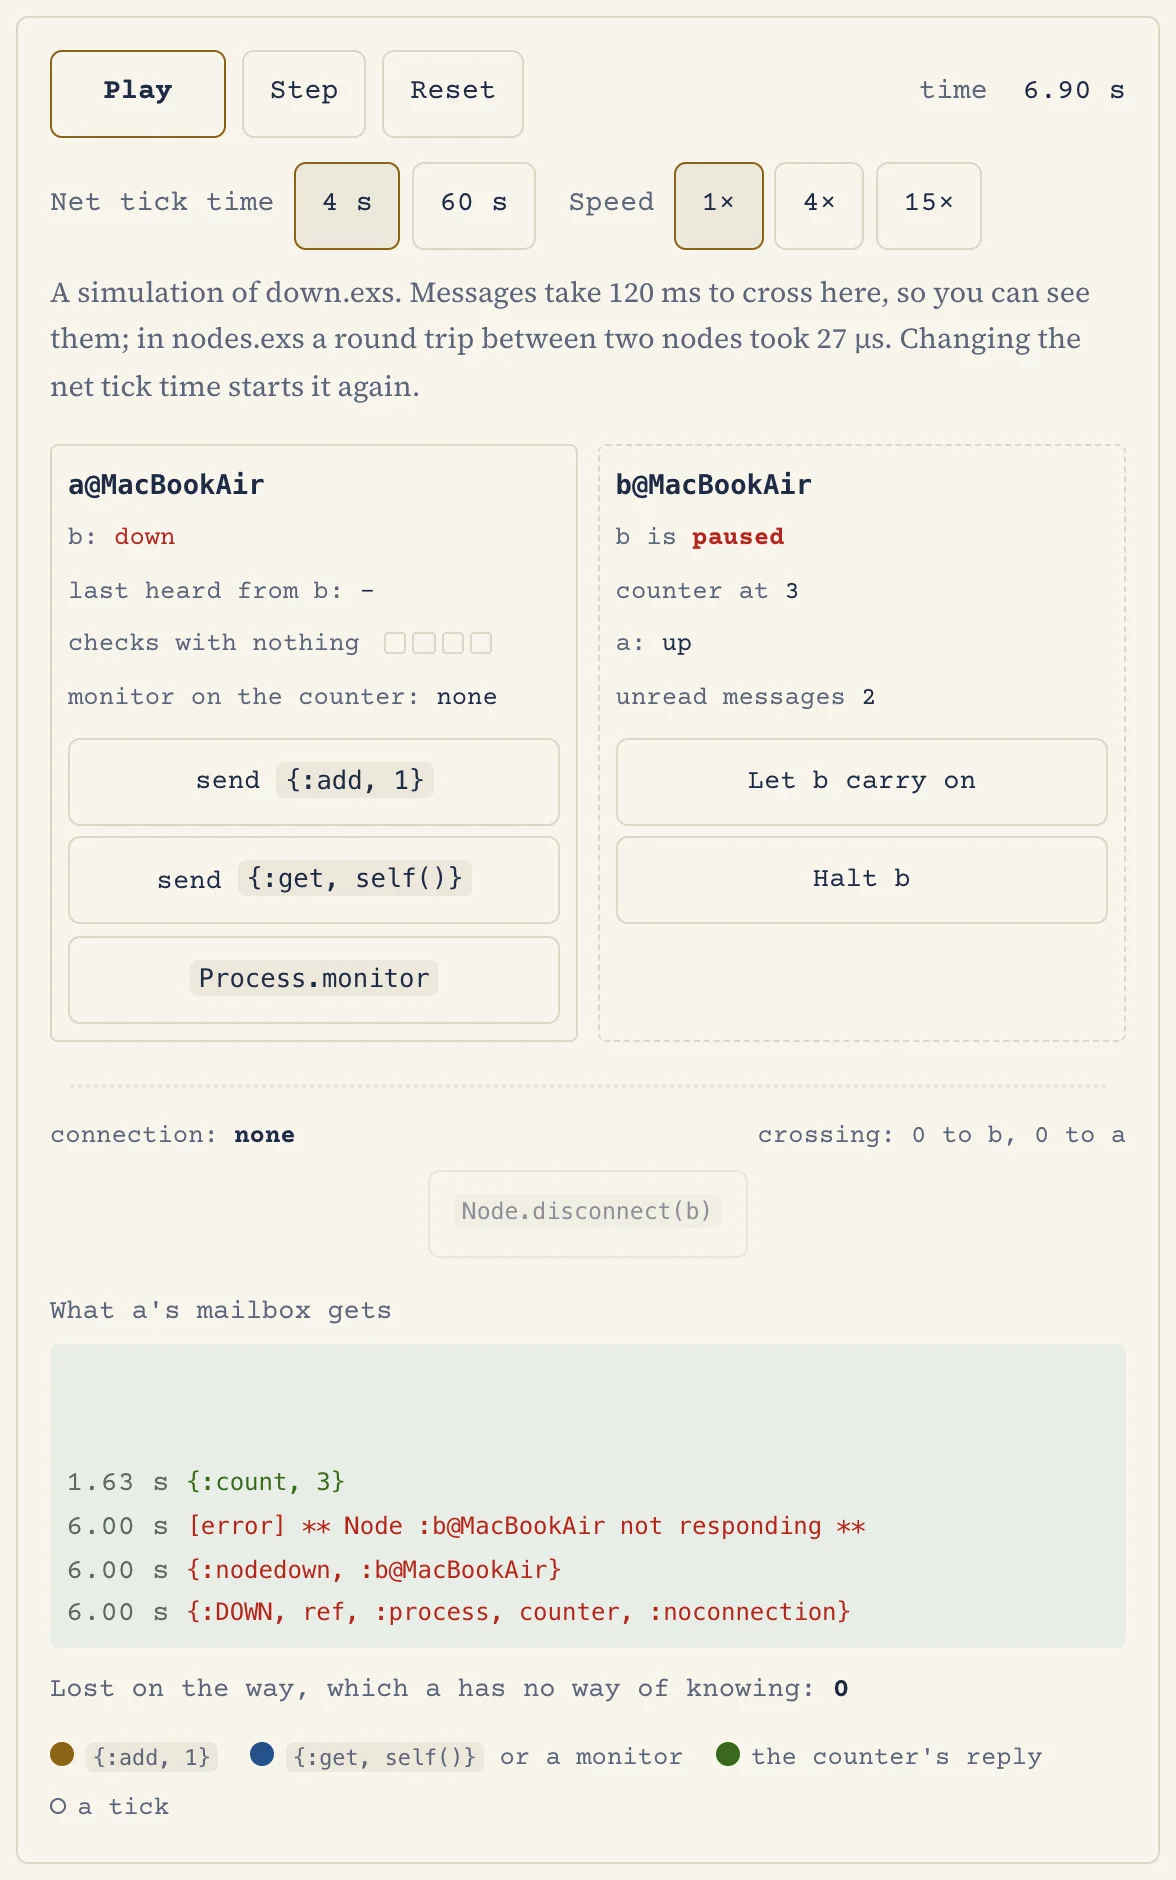
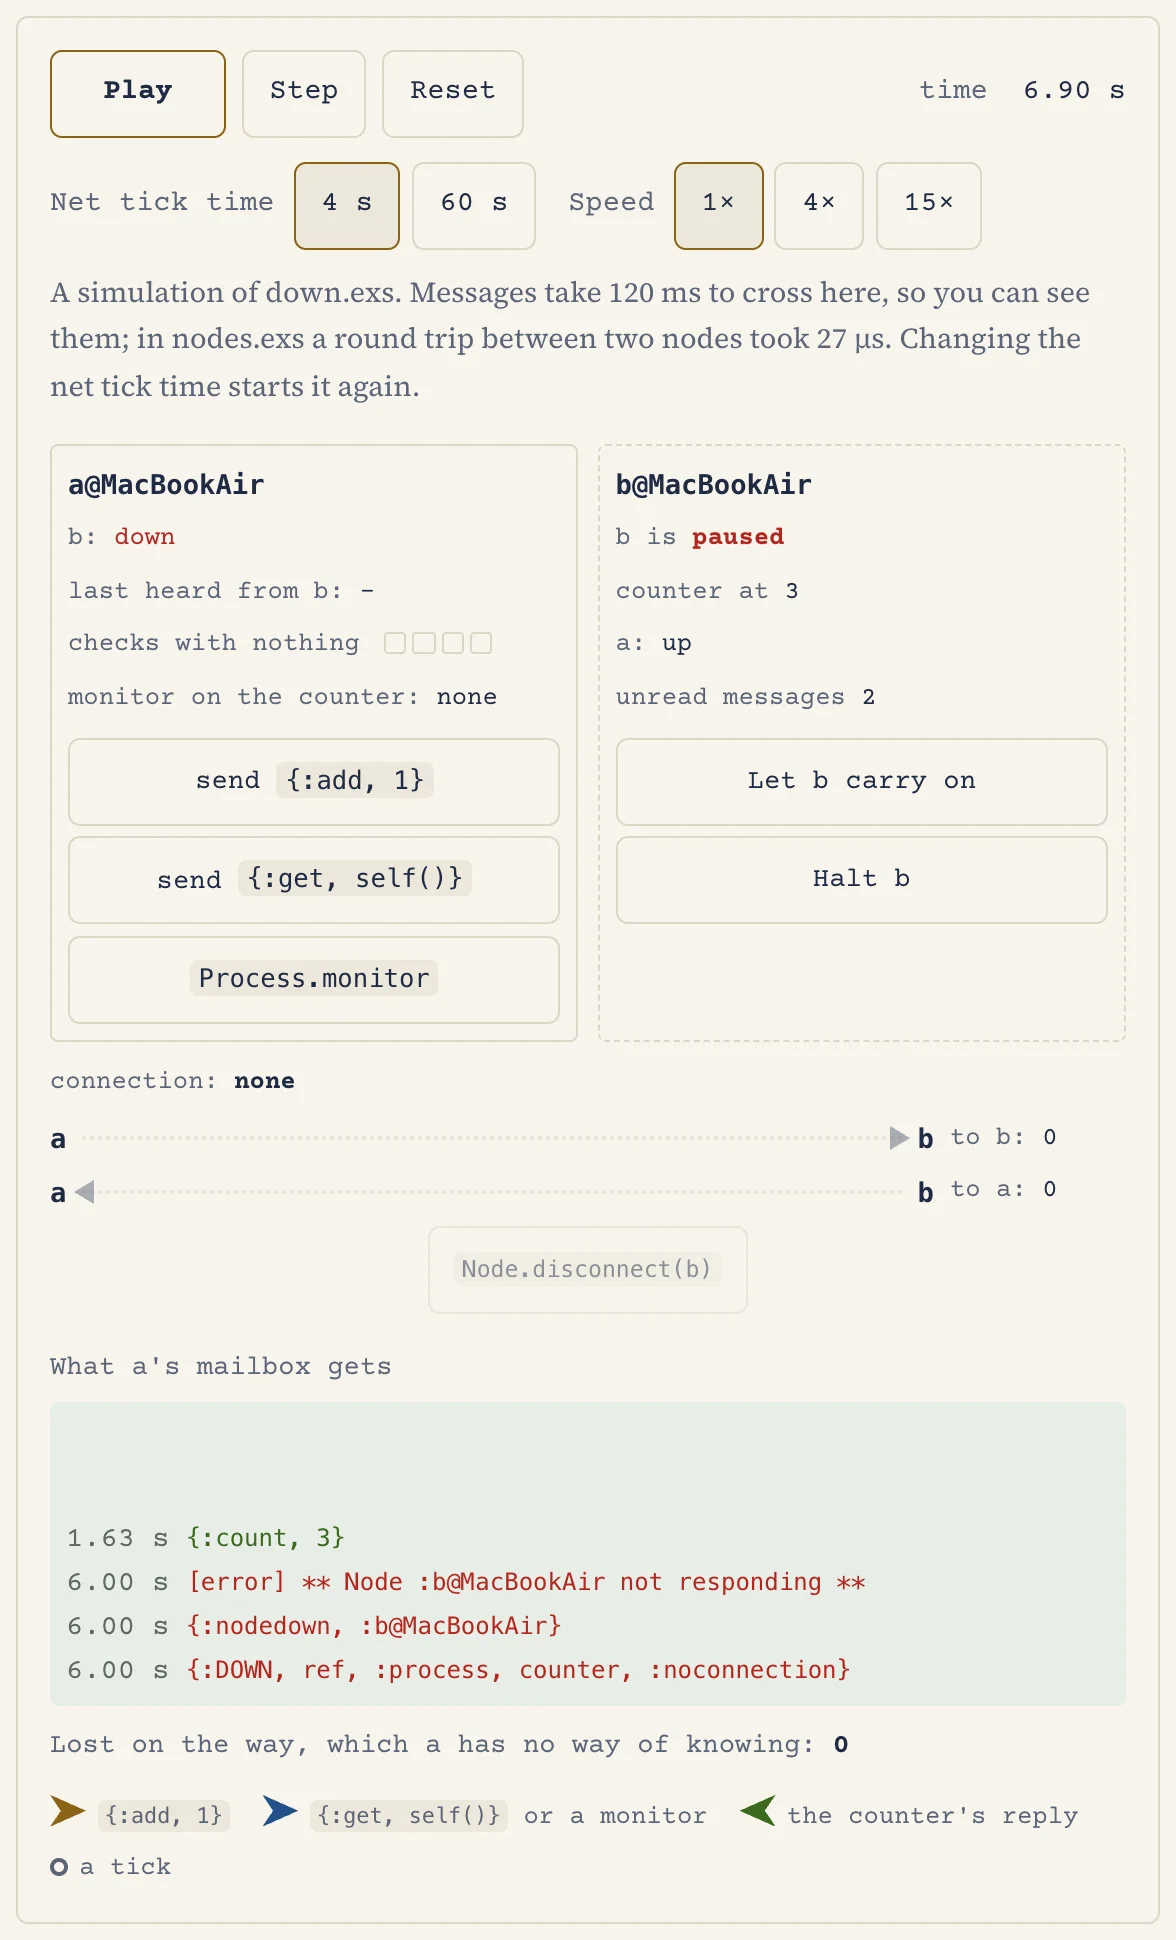
Make page 9's widget show which way messages are going: one lane each way with an arrowhead at the receiving end, and messages drawn as arrows

diff --git a/leaflets/beam-at-work/page-9/beam-nodes.js b/leaflets/beam-at-work/page-9/beam-nodes.js
@@ -429,10 +429,29 @@ document.head.insertAdjacentHTML("beforeend", `<style>
     font-size: .8rem;
     color: var(--muted);
   }
+  /* One lane each way, with an arrowhead at the receiving end */
+  beam-nodes .lane {
+    display: grid;
+    grid-template-columns: auto minmax(0, 1fr) auto 5.5rem;
+    align-items: center;
+    gap: .5rem;
+  }
+  beam-nodes .lane .end {
+    font-family: var(--code);
+    font-size: .85rem;
+    font-weight: 700;
+    color: var(--ink);
+  }
+  beam-nodes .lane .count {
+    white-space: nowrap;
+  }
+  beam-nodes .lane .count output {
+    color: var(--ink);
+    font-variant-numeric: tabular-nums;
+  }
   beam-nodes .track {
     position: relative;
-    height: 22px;
-    margin: 0 .6rem;
+    height: 24px;
   }
   beam-nodes .track::before {
     content: "";
@@ -440,41 +459,66 @@ document.head.insertAdjacentHTML("beforeend", `<style>
     left: 0;
     right: 0;
     top: 50%;
+    margin-top: -1px;
     border-top: 2px solid var(--line);
   }
-  beam-nodes .track.down::before {
+  beam-nodes .track::after {
+    content: "";
+    position: absolute;
+    top: 50%;
+    margin-top: -6px;
+    border: 6px solid transparent;
+  }
+  beam-nodes .ab .track::after {
+    right: -4px;
+    border-left: 10px solid var(--muted);
+    border-right-width: 0;
+  }
+  beam-nodes .ba .track::after {
+    left: -4px;
+    border-right: 10px solid var(--muted);
+    border-left-width: 0;
+  }
+  beam-nodes .lanes.down .track::before {
     border-top-style: dotted;
     opacity: .5;
   }
-  beam-nodes .track.connecting::before {
+  beam-nodes .lanes.down .track::after {
+    opacity: .5;
+  }
+  beam-nodes .lanes.connecting .track::before {
     border-top-style: dashed;
   }
+  beam-nodes .lanes {
+    display: grid;
+    gap: .15rem;
+  }
+  /* A message is an arrow pointing the way it's going; a tick is a ring */
   beam-nodes .dot {
     position: absolute;
     top: 50%;
-    width: 12px;
-    height: 12px;
-    margin: -6px 0 0 -6px;
-    border-radius: 50%;
+    width: 18px;
+    height: 16px;
+    margin: -8px 0 0 -9px;
     background: var(--ink);
+    clip-path: polygon(0 0, 100% 50%, 0 100%, 30% 50%);
+  }
+  beam-nodes .ba .dot {
+    clip-path: polygon(100% 0, 0 50%, 100% 100%, 70% 50%);
   }
   beam-nodes .dot.tick {
-    width: 8px;
-    height: 8px;
-    margin: -4px 0 0 -4px;
+    width: 9px;
+    height: 9px;
+    margin: -4.5px 0 0 -4.5px;
+    clip-path: none;
+    border-radius: 50%;
     background: var(--bg);
-    border: 1.5px solid var(--muted);
+    border: 2px solid var(--muted);
   }
   beam-nodes .dot.add { background: var(--brass); }
   beam-nodes .dot.get,
   beam-nodes .dot.monitor { background: var(--link); }
   beam-nodes .dot.reply { background: var(--code-string); }
-  beam-nodes .track-line {
-    display: flex;
-    flex-wrap: wrap;
-    justify-content: space-between;
-    gap: .2rem .8rem;
-  }
   beam-nodes .connection .status output {
     color: var(--ink);
     font-weight: 700;
@@ -556,11 +600,11 @@ document.head.insertAdjacentHTML("beforeend", `<style>
     position: static;
     display: inline-block;
     margin: 0 .35rem 0 0;
-    vertical-align: -.05rem;
+    vertical-align: -.1rem;
   }
   beam-nodes .key .dot.tick {
     margin: 0 .35rem 0 0;
-    vertical-align: 0;
+    vertical-align: -.05rem;
   }
   beam-nodes .sr {
     position: absolute;
@@ -634,11 +678,11 @@ customElements.define("beam-nodes", class extends HTMLElement {
           </div>
         </div>
         <div class="connection">
-          <div class="track" aria-hidden="true"></div>
-          <span class="track-line">
-            <span class="status">connection: <output class="conn"></output></span>
-            <span>crossing: <output class="crossing"></output></span>
-          </span>
+          <span class="status">connection: <output class="conn"></output></span>
+          <div class="lanes">
+            <div class="lane ab"><span class="end">a</span><div class="track" aria-hidden="true"></div><span class="end">b</span><span class="count">to b: <output></output></span></div>
+            <div class="lane ba"><span class="end">a</span><div class="track" aria-hidden="true"></div><span class="end">b</span><span class="count">to a: <output></output></span></div>
+          </div>
           <button type="button" data-do="disconnect"><code>Node.disconnect(b)</code></button>
         </div>
       </div>
@@ -648,7 +692,7 @@ customElements.define("beam-nodes", class extends HTMLElement {
       <p class="key" aria-hidden="true">
         <span><span class="dot add"></span><code>{:add, 1}</code></span>
         <span><span class="dot get"></span><code>{:get, self()}</code> or a monitor</span>
-        <span><span class="dot reply"></span>the counter's reply</span>
+        <span class="ba"><span class="dot reply"></span>the counter's reply</span>
         <span><span class="dot tick"></span>a tick</span>
       </p>`;
 
@@ -763,24 +807,27 @@ customElements.define("beam-nodes", class extends HTMLElement {
     this.$('[data-do="halt"]').disabled = c.b === "halted";
 
     // The connection
-    const track = this.$(".track");
-    track.classList.toggle("down", c.conn === "down");
-    track.classList.toggle("connecting", c.conn === "connecting");
+    const lanes = this.$(".lanes");
+    lanes.classList.toggle("down", c.conn === "down");
+    lanes.classList.toggle("connecting", c.conn === "connecting");
     let status = c.conn === "up" ? "up" : c.conn === "down" ? "none" : "connecting";
     if (c.conn === "connecting" && c.b === "paused") status += `, gives up in ${seconds(c.setupUntil - c.t)}`;
     set(this.$(".conn"), status);
-    const ab = c.wire.filter((m) => m.dir === "ab").length;
-    set(this.$(".crossing"), `${ab} to b, ${c.wire.length - ab} to a`);
     this.$('[data-do="disconnect"]').disabled = c.conn !== "up";
-    const dots = track.children;
-    while (dots.length < c.wire.length) track.append(document.createElement("span"));
-    for (let i = 0; i < dots.length; i++) {
-      const m = c.wire[i];
-      dots[i].hidden = !m;
-      if (!m) continue;
-      const share = Math.min(1, Math.max(0, (c.t - m.sent) / (m.arrive - m.sent)));
-      dots[i].className = `dot ${m.kind}`;
-      dots[i].style.left = `${(m.dir === "ab" ? share : 1 - share) * 100}%`;
+    for (const dir of ["ab", "ba"]) {
+      const wire = c.wire.filter((m) => m.dir === dir);
+      set(this.$(`.${dir} .count output`), String(wire.length));
+      const track = this.$(`.${dir} .track`);
+      const dots = track.children;
+      while (dots.length < wire.length) track.append(document.createElement("span"));
+      for (let i = 0; i < dots.length; i++) {
+        const m = wire[i];
+        dots[i].hidden = !m;
+        if (!m) continue;
+        const share = Math.min(1, Math.max(0, (c.t - m.sent) / (m.arrive - m.sent)));
+        dots[i].className = `dot ${m.kind}`;
+        dots[i].style.left = `${(dir === "ab" ? share : 1 - share) * 100}%`;
+      }
     }
 
     // a's mailbox, newest last
